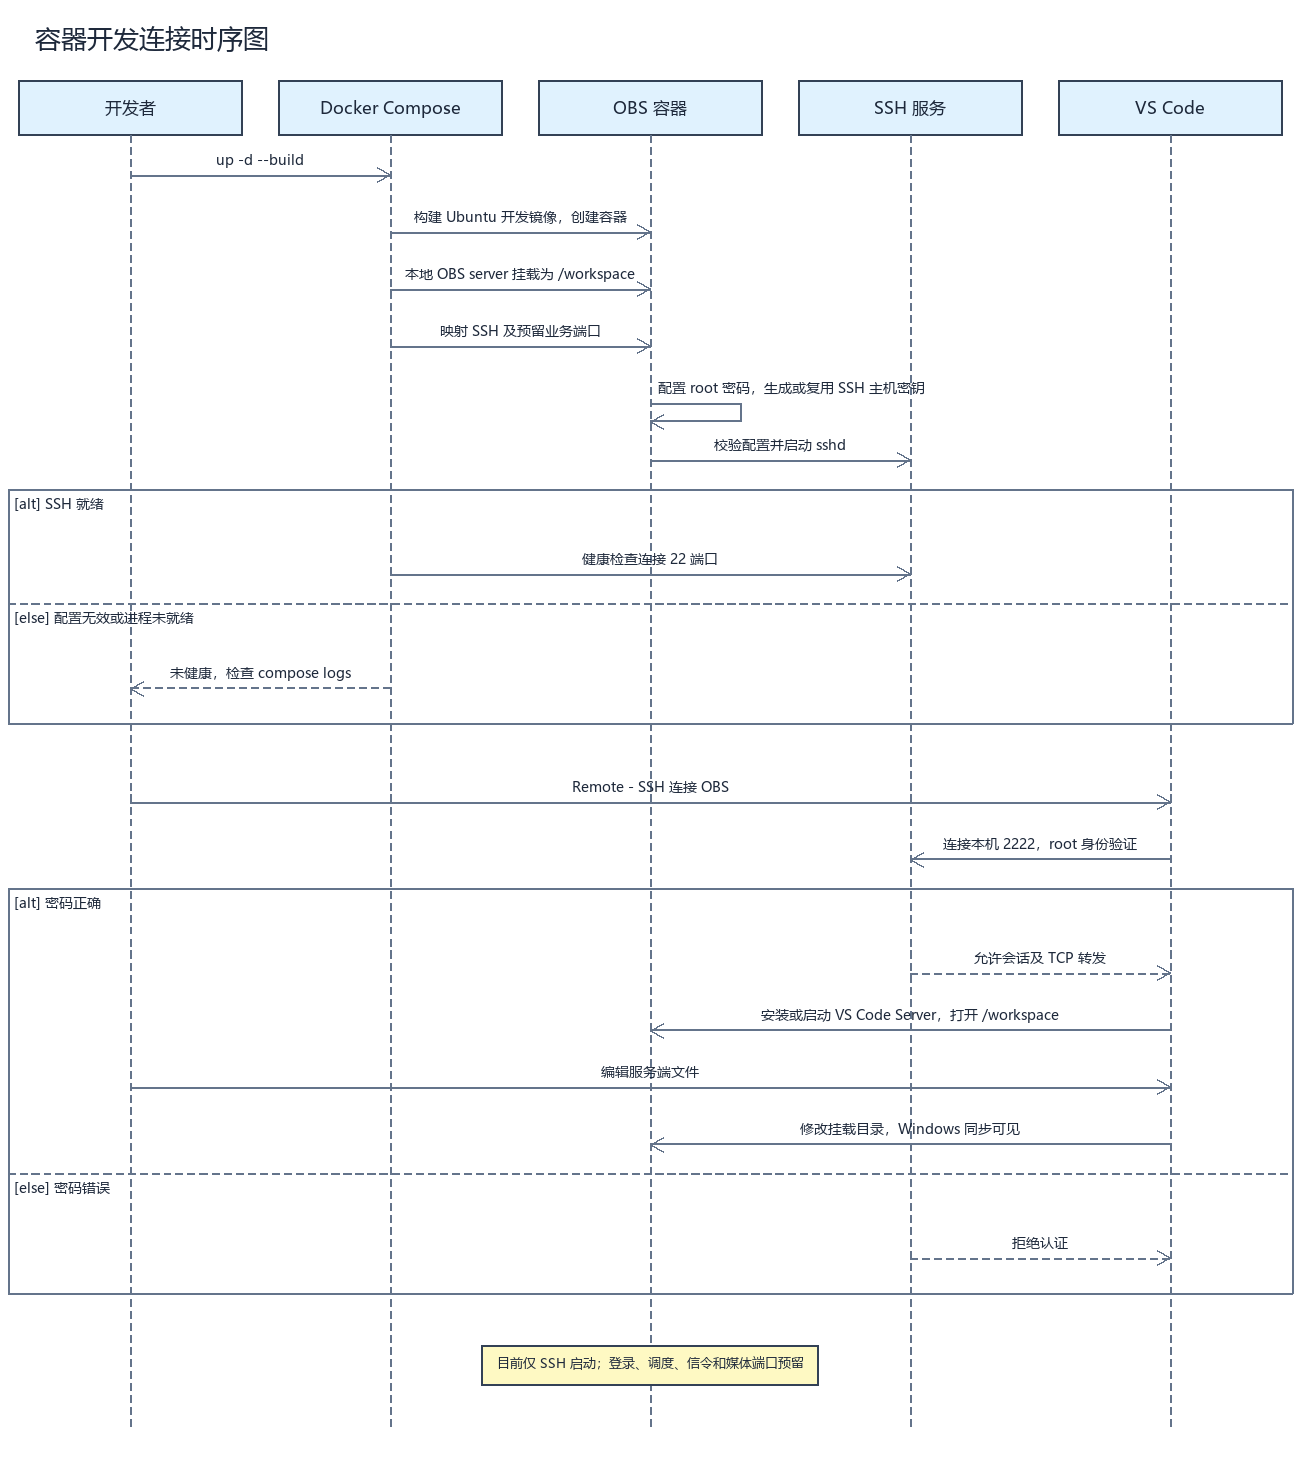
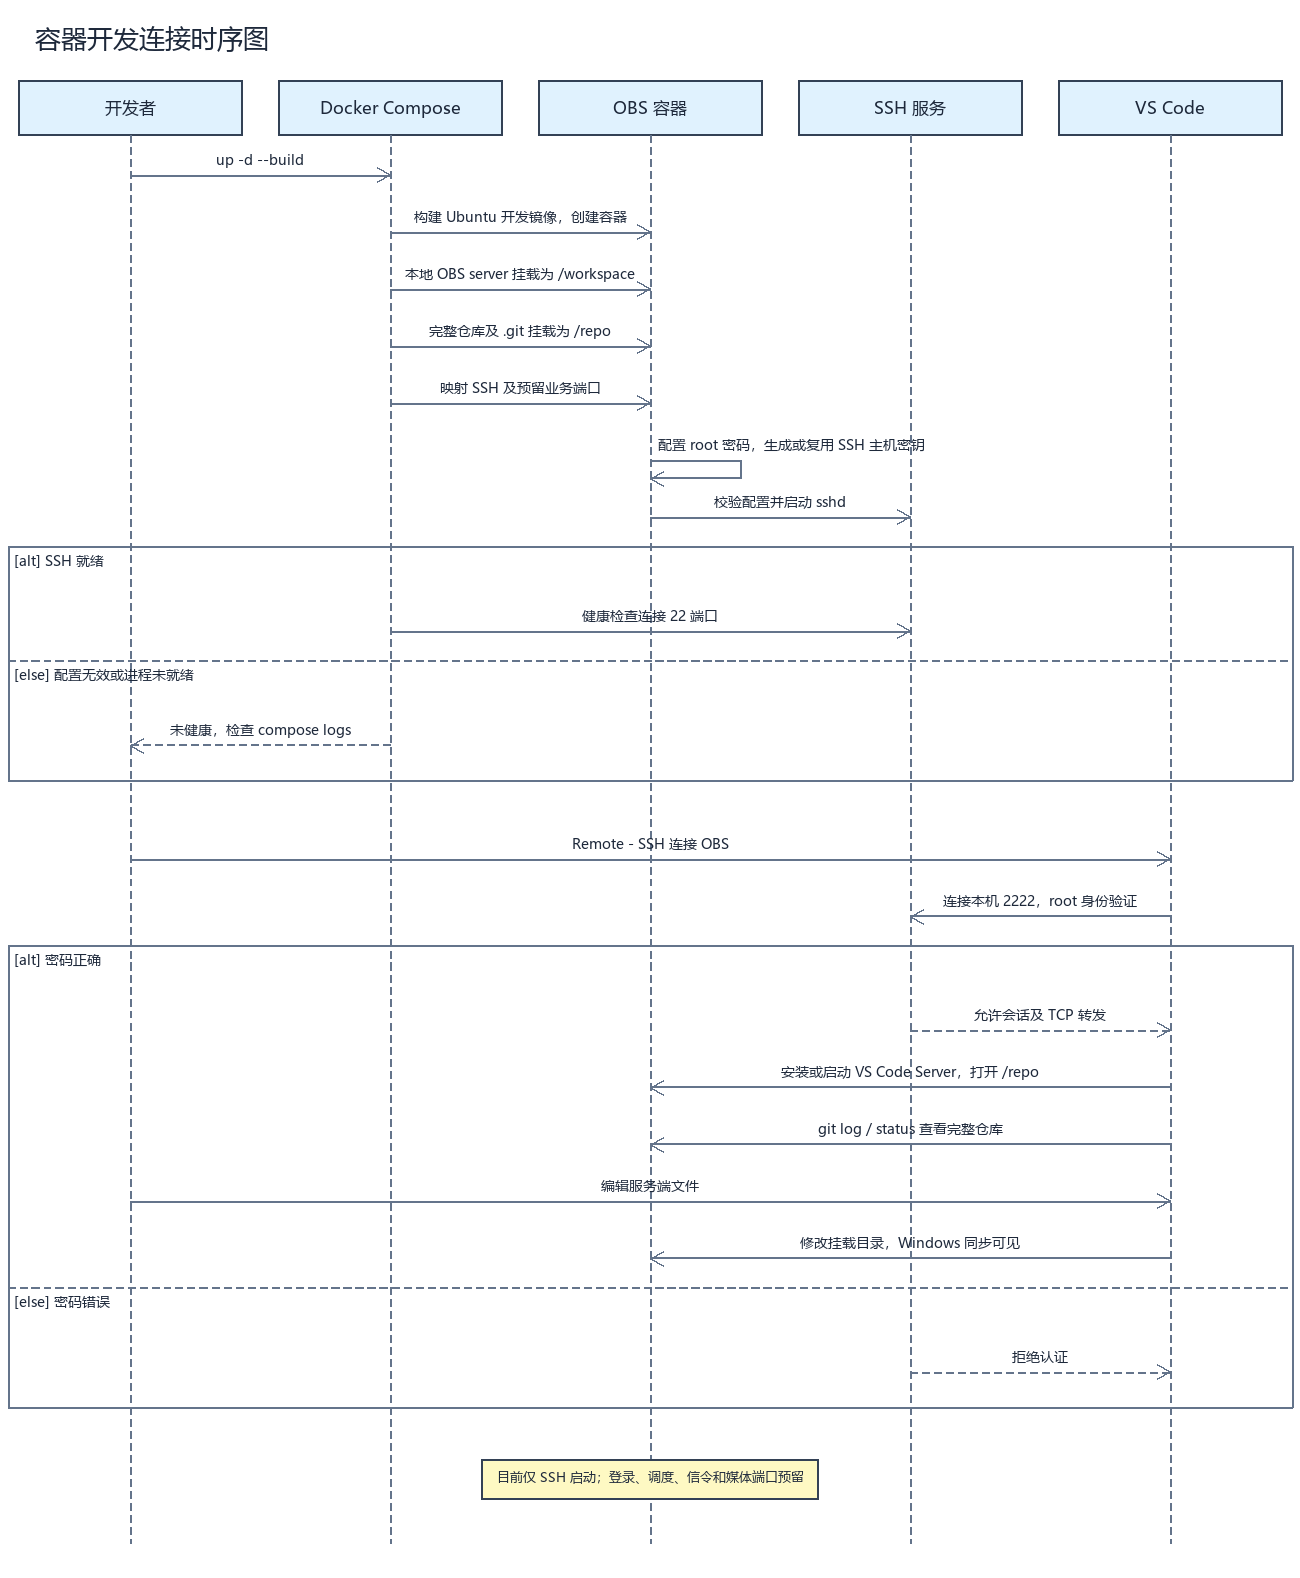
为 OBS 容器挂载完整仓库并启用 Git 和 GitHub CLI

diff --git a/OBS server/README.md b/OBS server/README.md
@@ -1,21 +1,55 @@
 # OBS Linux 开发容器
 
-本目录挂载到容器 `/workspace`。Windows 本地修改与 Linux 内修改直接同步，后续服务端代码集中在这里。
+本目录挂载到容器 `/workspace`，整个 CourseStudioNext 仓库另挂载到 `/repo`（包含 .git）。Windows 本地修改与 Linux 内修改直接同步，后续服务端代码集中在本目录的 code 中。
 
 ## VS Code 连接
 
 1. 在 Windows VS Code 安装微软的 **Remote - SSH** 扩展（`ms-vscode-remote.remote-ssh`）。
 2. 按 `Ctrl+Shift+P`，选择 `Remote-SSH: Connect to Host...`，选择 `OBS`。
 3. 首次连接确认 SSH 主机指纹，输入 root 用户密码。
-4. 远程窗口中选择“打开文件夹”，打开 `/workspace`。
+4. 远程窗口中选择“打开文件夹”，打开 `/repo`，源代码管理即可显示整个仓库及提交历史。
 
-也可以直接打开本目录的 `OBS.code-workspace`；它指向 `OBS` 主机的 `/workspace`。用户名 root，初始开发密码 root。密码不保存到 SSH 配置，连接时输入。
+也可以直接打开本目录的 `OBS.code-workspace`；它指向 `OBS` 主机的 `/repo`，CMake 仍在 /workspace/code 构建，避免改变已有构建缓存路径。用户名 root，初始开发密码 root。密码不保存到 SSH 配置，连接时输入。
 
 Windows SSH 主机配置位于 `%USERPROFILE%\.ssh\config`，本目录的 `ssh_config` 是对应配置备份。若换电脑，把该文件的 Host OBS 配置块添加到本机 SSH 配置。终端连接：
 
 ```powershell
 ssh OBS
 ```
+
+## 远程 Git 与 GitHub
+
+容器和 Windows 共用同一份仓库及历史，不需要在 code 目录再次 git init。远程终端：
+
+```bash
+cd /repo
+git status
+git log --oneline --graph --all
+git show --stat HEAD
+```
+
+提交前先查看差异，按文件暂存，避免把无关修改一并提交：
+
+```bash
+git diff
+git add "OBS server/code/net/具体文件.cpp"
+git commit -m "说明本次修改"
+```
+
+如果需要设置提交署名，在 /repo 中执行 `git config user.name "你的署名"` 和 `git config user.email "你的 GitHub 验证邮箱或 noreply 邮箱"`。这两个值影响后续提交作者，不代表 GitHub 登录。
+
+镜像已安装 gh。GitHub 首次授权在远程终端执行：
+
+```bash
+gh auth login --hostname github.com --git-protocol https --web
+gh auth setup-git
+```
+
+按终端提示在 Windows 浏览器打开 GitHub 授权页面并输入一次性代码。无需把令牌发到聊天中，root/root 是容器 SSH 登录，与 GitHub 授权无关。授权配置保存在持久化的 /root 卷，不放入仓库。
+
+GitHub 地址确认后配置 origin；已有 origin 时先查看 `git remote -v`，避免覆盖不同项目。首次推送用 `git push -u origin main`。若远端已有提交，先 fetch 并检查历史，再决定合并方式，不覆盖远端历史。
+
+参考：[GitHub CLI 浏览器授权](https://cli.github.com/manual/gh_auth_login)、[Git 凭据设置](https://cli.github.com/manual/gh_auth_setup-git)。
 
 ## 端口约定
 

diff --git a/AGENTS.md b/AGENTS.md
@@ -17,3 +17,4 @@
 - 不打印密码、认证数据包或令牌。
 - Linux 服务端源码和 Docker 配置集中在 `OBS server/`，容器名 `OBS`，工作目录 `/workspace`；保持简单分级。客户端继续使用 `CSN/`。
 - 服务端应用工程入口为 `OBS server/code/CMakeLists.txt`，公共网络类放 `code/net/`，行为测试放 `code/tests/`；业务目录随实现再添加。
+- 容器 `/repo` 挂载完整 CourseStudioNext 仓库，用于 Git 和全工程浏览；`/workspace` 保留服务端目录别名和原构建路径。两者为同一份本地文件。
